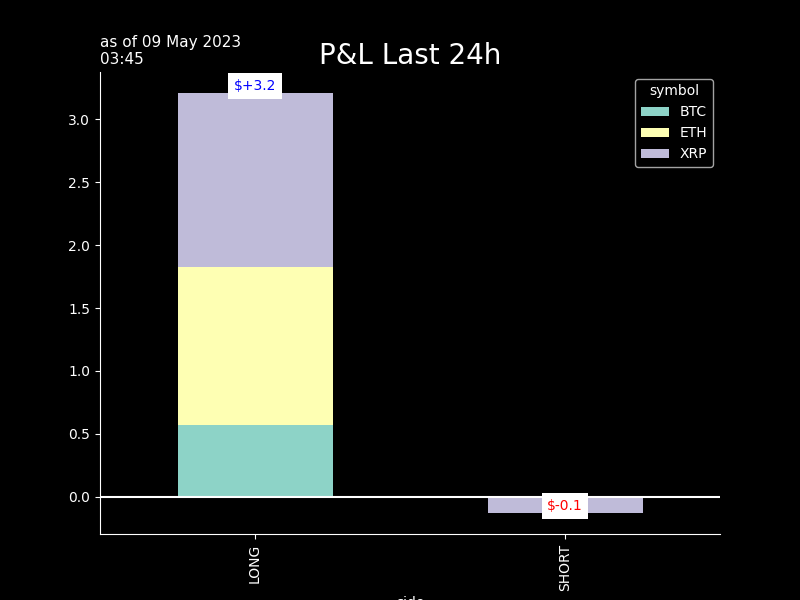
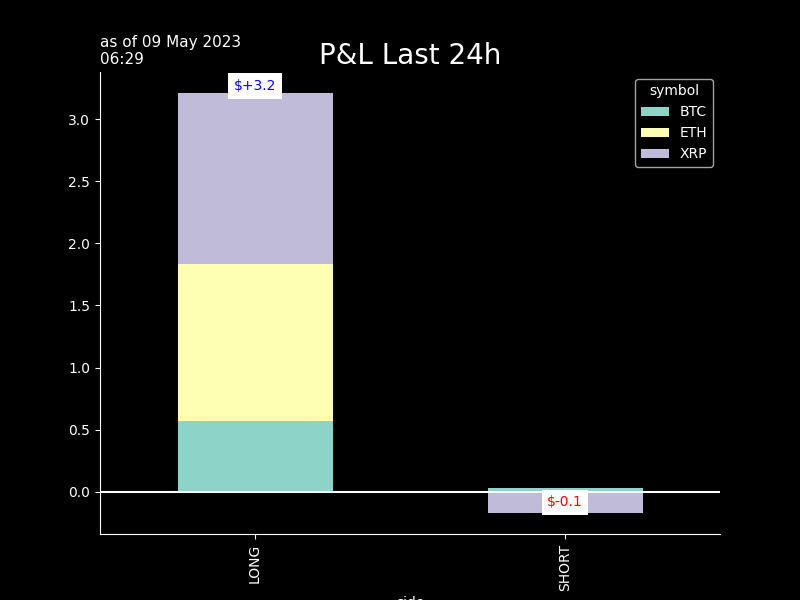
seb_commit

diff --git a/crypto/graphs/bt_trades_book.htmltrade_trades_book.html b/crypto/graphs/bt_trades_book.htmltrade_trades_book.html
@@ -37,38 +37,38 @@
   </thead>
   <tbody>
     <tr>
-      <th>XRPUSDT</th>
-      <td>0.4251</td>
-      <td>2023-05-09 02:44:08.500</td>
-      <td>-171.800</td>
-      <td>$-73.0</td>
+      <th>BTCUSDT</th>
+      <td>27553.4000</td>
+      <td>2023-05-09 05:27:05</td>
+      <td>0.001</td>
+      <td>$27.6</td>
       <td>$0.01</td>
       <td>2.0</td>
       <td>0.0</td>
-      <td>0.42495</td>
-      <td>2023-05-09 03:42</td>
+      <td>27572.05000</td>
+      <td>2023-05-09 06:26</td>
       <td>0.0</td>
-      <td>4.0</td>
-      <td>.425</td>
-      <td>0.0</td>
-      <td>3.0</td>
+      <td>7.0</td>
+      <td>27545.1</td>
+      <td>-0.0</td>
+      <td>-4.0</td>
     </tr>
     <tr>
-      <th>BTCUSDT</th>
-      <td>27581.9500</td>
-      <td>2023-05-09 02:44:04.000</td>
-      <td>-0.002</td>
-      <td>$-55.2</td>
+      <th>XRPUSDT</th>
+      <td>0.4256</td>
+      <td>2023-05-09 05:29:06</td>
+      <td>85.900</td>
+      <td>$36.6</td>
       <td>$0.01</td>
       <td>2.0</td>
       <td>-0.0</td>
-      <td>27578.05000</td>
-      <td>2023-05-09 03:42</td>
+      <td>0.42535</td>
+      <td>2023-05-09 06:26</td>
+      <td>-0.0</td>
+      <td>-5.0</td>
+      <td>.4257</td>
       <td>0.0</td>
-      <td>2.0</td>
-      <td>27582.1</td>
-      <td>-0.0</td>
-      <td>-0.0</td>
+      <td>3.0</td>
     </tr>
   </tbody>
 </table>

diff --git a/crypto/graphs/bt_trades_recap.htmltrade_trades_recap.html b/crypto/graphs/bt_trades_recap.htmltrade_trades_recap.html
@@ -9,32 +9,32 @@
   <tbody>
     <tr>
       <th>as of</th>
-      <td>09May 02:43&gt;&gt;02:45</td>
+      <td>09May 05:27&gt;&gt;05:29</td>
       <td>#trades: 2</td>
     </tr>
     <tr>
       <th>trade net</th>
-      <td>-128.0</td>
-      <td>-44.2%</td>
+      <td>+64.0</td>
+      <td>+22.1%</td>
     </tr>
     <tr>
       <th>trade gross</th>
-      <td>+128.0</td>
-      <td>+44.2%</td>
+      <td>+64.0</td>
+      <td>+22.1%</td>
     </tr>
     <tr>
       <th>BUY</th>
+      <td>+64.0</td>
+      <td>+22.1%</td>
+    </tr>
+    <tr>
+      <th>SELL</th>
       <td>+0.0</td>
       <td>+0.0%</td>
     </tr>
     <tr>
-      <th>SELL</th>
-      <td>-128.0</td>
-      <td>-44.2%</td>
-    </tr>
-    <tr>
       <th>fees</th>
-      <td>$ 0.026</td>
+      <td>$ 0.013</td>
       <td>2.0bp</td>
     </tr>
   </tbody>

diff --git a/crypto/graphs/bt_trades_pnlD_recap.htmltrade_trades_pnlD_recap.html b/crypto/graphs/bt_trades_pnlD_recap.htmltrade_trades_pnlD_recap.html
@@ -1,7 +1,7 @@
 <table border="1" class="dataframe">
   <thead>
     <tr style="text-align: right;">
-      <th>09 May 03:45</th>
+      <th>09 May 06:29</th>
       <th>realizedPnl</th>
       <th>PnLvsArrival</th>
       <th>PnLvsLast</th>
@@ -10,21 +10,21 @@
   <tbody>
     <tr>
       <th>in$</th>
-      <td>0.0</td>
+      <td>-0.0</td>
       <td>0.0</td>
       <td>0.0</td>
     </tr>
     <tr>
-      <th>in bp 128 traded</th>
+      <th>in bp 64 traded</th>
+      <td>-2 bp</td>
       <td>0 bp</td>
-      <td>3 bp</td>
-      <td>2 bp</td>
+      <td>0 bp</td>
     </tr>
     <tr>
       <th>in bp 289 AUMs</th>
+      <td>-0 bp</td>
       <td>0 bp</td>
-      <td>1 bp</td>
-      <td>1 bp</td>
+      <td>0 bp</td>
     </tr>
   </tbody>
 </table>
